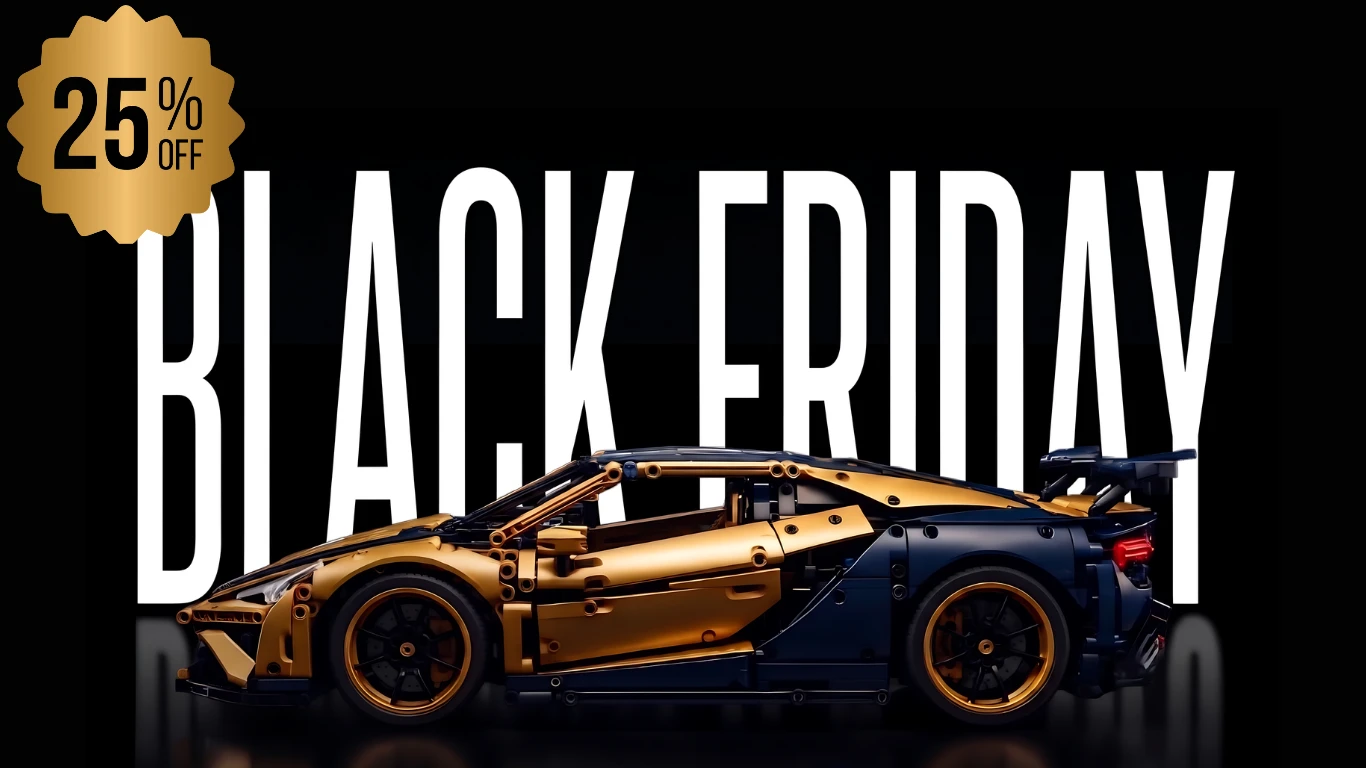
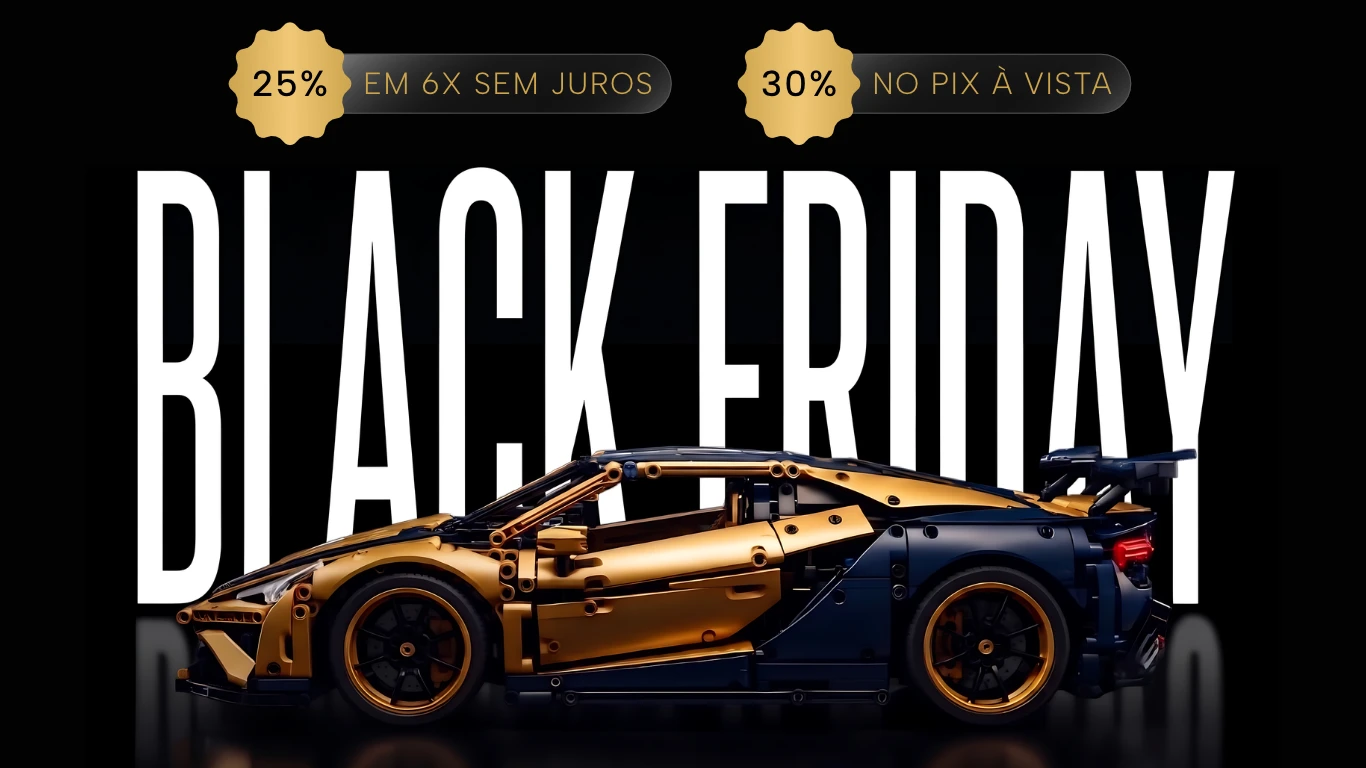
Atualiza imagem da hero de Black Friday e ajusta posição no desktop
Nova versão do banner (selos de desconto mais no topo da imagem).
Adiciona respiro (sm:top-28) só durante a Black Friday e só em telas
sm+, pra os selos não ficarem colados na faixa fixa + header do
desktop; mobile não muda, a imagem já renderiza menor lá.

Claude-Session: https://claude.ai/code/session_01KidUU3ZEnmh6JCCCkvJSSh

Changed region(s): [[0.0, 0.0, 0.4919, 0.3125], [0.5227, 0.0312, 0.8302, 0.1875]]

diff --git a/site/src/components/HeroCar.tsx b/site/src/components/HeroCar.tsx
@@ -61,7 +61,17 @@ export function HeroCar({ darken }: { darken: MotionValue<number> }) {
       <motion.img
         src={IMAGE_URL}
         alt={IMAGE_ALT}
-        className="absolute inset-0 h-full w-full object-contain"
+        // O banner da Black Friday tem os selos de desconto (25%/30%) perto
+        // do topo da imagem — no desktop, a combinação do header fixo com a
+        // faixa fixa (ver BlackFridayBanner) cobre essa faixa superior, e
+        // "contain" sem folga deixava os selos colados/escondidos atrás
+        // deles. Um respiro no topo só em telas sm+ empurra (e encolhe
+        // ligeiramente) a imagem inteira pra baixo, sem cortar nada — no
+        // mobile a imagem já renderiza menor por natureza (portrait),
+        // então os selos nunca chegam perto do header.
+        className={`absolute inset-x-0 bottom-0 top-0 h-auto w-full object-contain ${
+          isBlackFridayActive() ? 'sm:top-28' : ''
+        }`}
         style={{ rotateX, rotateY, x: translateX, y: translateY, scale }}
         initial={{ opacity: 0 }}
         animate={{ opacity: 1 }}
